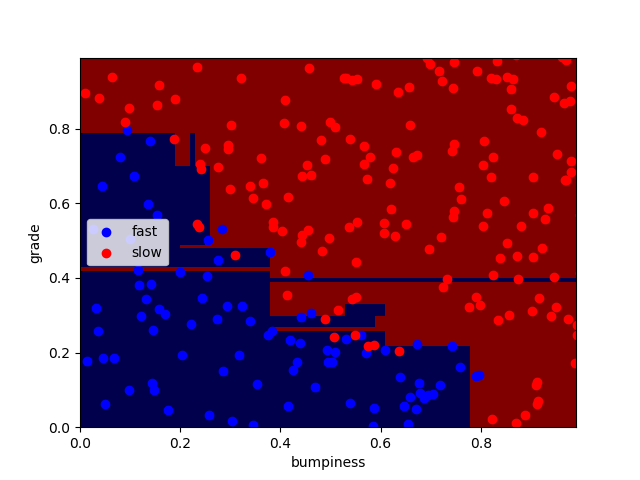
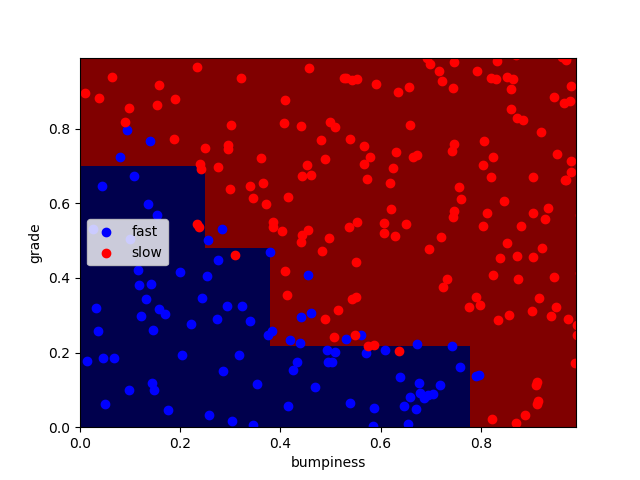
feat: decision tree on terrain data

diff --git a/L4_Decision_trees/A_DT_terrain_data.py b/L4_Decision_trees/A_DT_terrain_data.py
@@ -8,7 +8,7 @@ from class_vis import prettyPicture
 
 features_train, labels_train, features_test, labels_test = makeTerrainData()
 
-clf = DecisionTreeClassifier()
+clf = DecisionTreeClassifier(min_samples_split=50)
 t0 = time()
 
 clf.fit(features_train, labels_train)
